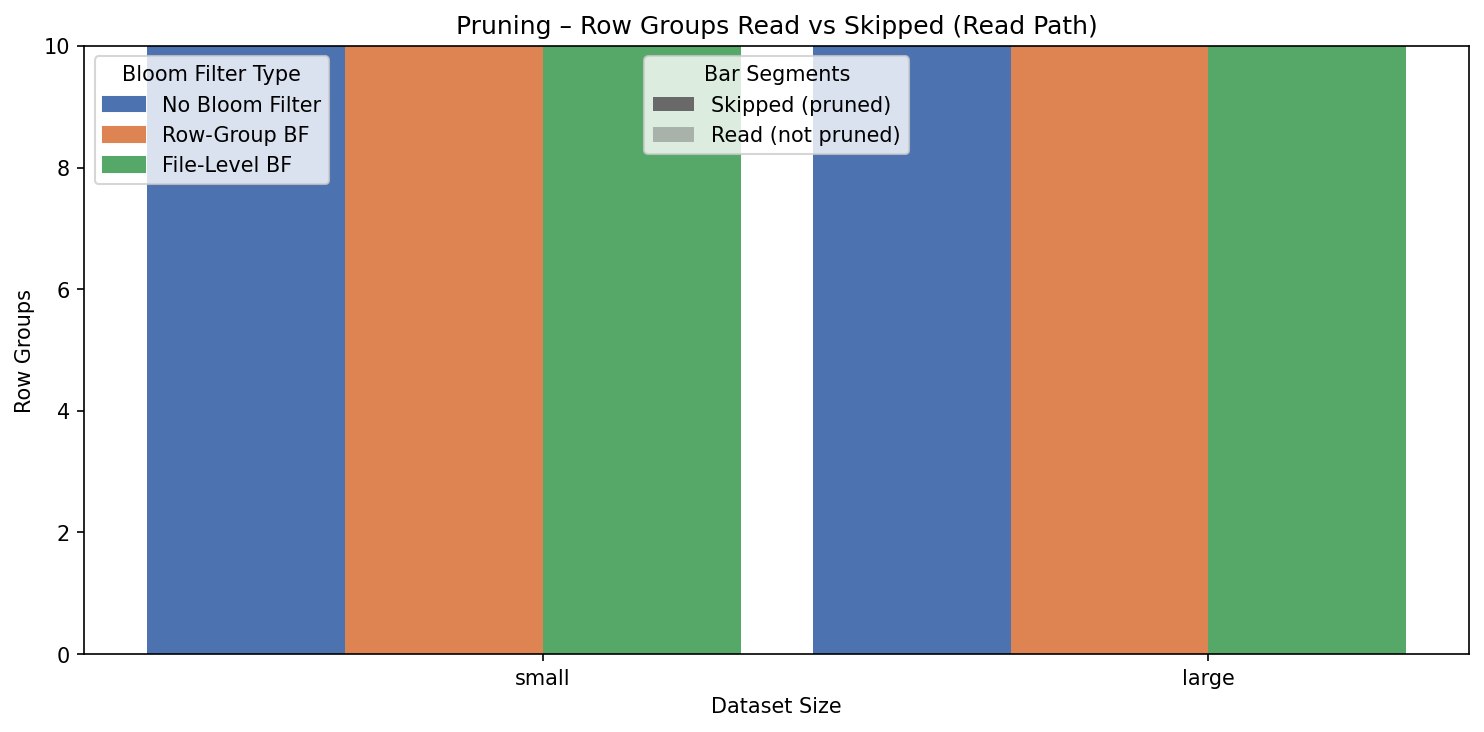
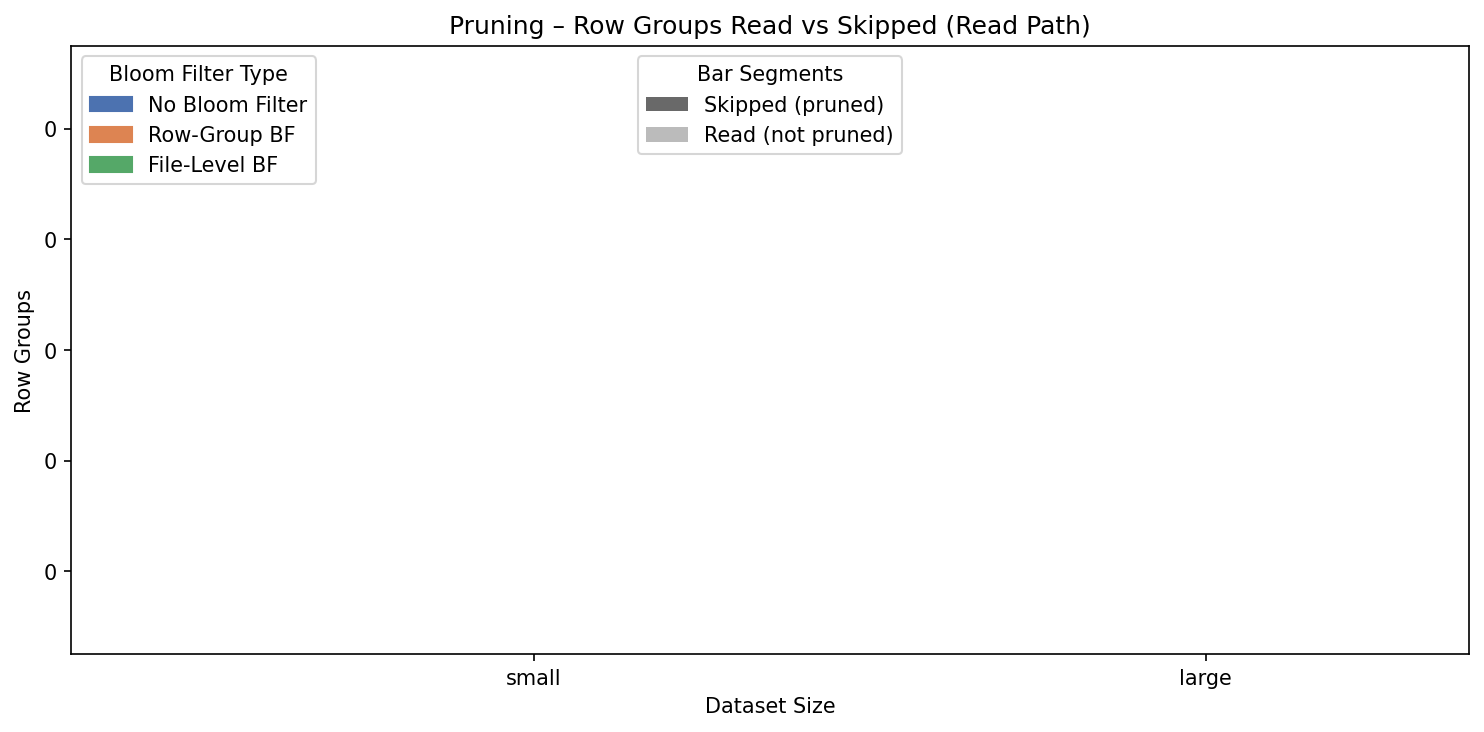
export time metrics

diff --git a/dev-spark/src/main/java/org/apache/iceberg/dev/ReadTableSpark.java b/dev-spark/src/main/java/org/apache/iceberg/dev/ReadTableSpark.java
@@ -27,6 +27,7 @@ import com.fasterxml.jackson.databind.SerializationFeature;
 
 import java.io.IOException;
 import java.nio.file.Paths;
+import java.util.HashMap;
 import java.util.List;
 import java.util.Locale;
 import java.util.Map;
@@ -53,6 +54,17 @@ import org.apache.iceberg.dev.ReadMetrics;
 public class ReadTableSpark {
 
   private static final String DEFAULT_TABLE = "local.default.sample_table_spark";
+
+  /** Result of a query run with memory/duration tracking; includes the Dataset for scan metrics. */
+  private static class TrackedQueryResult {
+    final MemoryTracker.Result metrics;
+    final Dataset<Row> dataFrame;
+
+    TrackedQueryResult(MemoryTracker.Result metrics, Dataset<Row> dataFrame) {
+      this.metrics = metrics;
+      this.dataFrame = dataFrame;
+    }
+  }
 
   public static void main(String[] args) throws Exception {
     String tableName = args.length > 0 ? args[0] : DEFAULT_TABLE;
@@ -97,7 +109,7 @@ public class ReadTableSpark {
     // Query 1: id = 50 — exists in one file only (50 % numFiles)
     // With bloom filter: skip (numFiles-1) files. Without bloom filter: skip 0 files (min/max useless)
     int file50 = 50 % numFiles;
-    MemoryTracker.Result mem1 =
+    TrackedQueryResult t1 =
         runQueryWithMemoryTracking(
             spark,
             tableName,
@@ -106,7 +118,7 @@ public class ReadTableSpark {
 
     // Query 2: id = 9999999 — doesn't exist in any file
     // With bloom filter: skip all files. Without bloom: skip 0 (min/max sees all files match)
-    MemoryTracker.Result mem2 =
+    TrackedQueryResult t2 =
         runQueryWithMemoryTracking(
             spark,
             tableName,
@@ -121,7 +133,7 @@ public class ReadTableSpark {
     inFiles.add(file51);
     inFiles.add(file55);
     int skipIn = numFiles - inFiles.size();
-    MemoryTracker.Result mem3 =
+    TrackedQueryResult t3 =
         runQueryWithMemoryTracking(
             spark,
             tableName,
@@ -130,7 +142,7 @@ public class ReadTableSpark {
 
     // Query 4: id = 123456 — exists in one file
     int file123456 = 123456 % numFiles;
-    MemoryTracker.Result mem4 =
+    TrackedQueryResult t4 =
         runQueryWithMemoryTracking(
             spark,
             tableName,
@@ -139,23 +151,29 @@ public class ReadTableSpark {
 
     // Print memory summary
     System.out.println("=== Memory Summary ===");
-    System.out.println("  Query 1 (id = 50000): " + mem1);
-    System.out.println("  Query 2 (id = 9999999): " + mem2);
-    System.out.println("  Query 3 (id IN (50000, 550000)): " + mem3);
-    System.out.println("  Query 4 (id BETWEEN 150000 AND 150100): " + mem4);
+    System.out.println("  Query 1 (id = 50000): " + t1.metrics);
+    System.out.println("  Query 2 (id = 9999999): " + t2.metrics);
+    System.out.println("  Query 3 (id IN (50000, 550000)): " + t3.metrics);
+    System.out.println("  Query 4 (id BETWEEN 150000 AND 150100): " + t4.metrics);
     System.out.println();
 
-    // Export fake data .json data for development purposes
+    Map<String, Long> scanMetrics = getScanMetrics(t3.dataFrame);
     ReadMetrics metrics = new ReadMetrics();
-    metrics.skippedRowGroups = 10;
-    metrics.skippedDataFiles = 3;
-    metrics.maxMemoryUsage = (float) mem3.peakMemoryMB();
-    metrics.totalReadDuration = (float) mem3.durationMs();
-    metrics.puffinReadDuration = 12.3f;
-    metrics.manifestReadDuration = 5.7f;
-    metrics.datafileReadDuration = 20.1f;
+    metrics.skippedRowGroups = getIntMetric(scanMetrics, "skippedRowGroups");
+    metrics.skippedDataFiles = getIntMetric(scanMetrics, "skippedDataFiles");
+    metrics.totalRowGroups = getIntMetric(scanMetrics, "totalRowGroups");
+    metrics.totalScanDataFiles = getIntMetric(scanMetrics, "totalScanDataFiles");
+    metrics.resultDataFiles = getIntMetric(scanMetrics, "resultDataFiles");
+    metrics.totalDataFileSizeBytes = scanMetrics.get("totalDataFileSize");
+    metrics.puffinStatsFileSizeBytes = scanMetrics.get("puffinStatsFileSizeInBytes");
+    metrics.puffinStatsFooterSizeBytes = scanMetrics.get("puffinStatsFooterSizeInBytes");
+    metrics.maxMemoryUsage = (float) t3.metrics.peakMemoryMB();
+    metrics.totalReadDuration = (float) t3.metrics.durationMs();
+    // manifest/puffin/data read durations: set when real Spark metrics are collected
+    metrics.puffinReadDuration = null;
+    metrics.manifestReadDuration = null;
+    metrics.datafileReadDuration = null;
 
-    // ReadMetrics metrics = collectReadMetrics(lastDf);
     exportReadMetrics(metrics);
 
     spark.stop();
@@ -169,7 +187,7 @@ public class ReadTableSpark {
     System.out.println("Read Metrics exported to " + outputPath);
   }
 
-  private static MemoryTracker.Result runQueryWithMemoryTracking(
+  private static TrackedQueryResult runQueryWithMemoryTracking(
       SparkSession spark, String tableName, String predicate, String description) {
     System.out.println("=== Query: " + predicate + " ===");
     System.out.println("    " + description);
@@ -192,7 +210,40 @@ public class ReadTableSpark {
     printScanMetrics(df);
     System.out.println();
 
-    return memResult;
+    return new TrackedQueryResult(memResult, df);
+  }
+
+  /** Extracts Iceberg scan metric values from the executed plan of the given Dataset. */
+  private static Map<String, Long> getScanMetrics(Dataset<Row> df) {
+    Map<String, Long> out = new HashMap<>();
+    SparkPlan plan = df.queryExecution().executedPlan();
+    List<SparkPlan> leaves = seqAsJavaListConverter(plan.collectLeaves()).asJava();
+    if (leaves.isEmpty()) {
+      return out;
+    }
+    Map<String, SQLMetric> metrics = null;
+    for (SparkPlan leaf : leaves) {
+      Map<String, SQLMetric> m = mapAsJavaMapConverter(leaf.metrics()).asJava();
+      if (m.containsKey("totalDataFileSize") || m.containsKey("resultDataFiles")
+          || m.containsKey("totalRowGroups")) {
+        metrics = m;
+        break;
+      }
+    }
+    if (metrics == null) {
+      metrics = mapAsJavaMapConverter(leaves.get(0).metrics()).asJava();
+    }
+    for (Map.Entry<String, SQLMetric> e : metrics.entrySet()) {
+      if (e.getValue() != null) {
+        out.put(e.getKey(), (long) e.getValue().value());
+      }
+    }
+    return out;
+  }
+
+  private static Integer getIntMetric(Map<String, Long> scanMetrics, String name) {
+    Long v = scanMetrics.get(name);
+    return v != null ? v.intValue() : null;
   }
 
   private static void printScanMetrics(Dataset<Row> df) {
